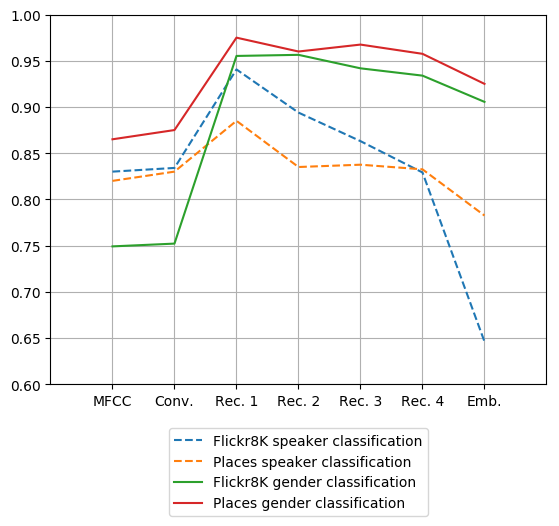
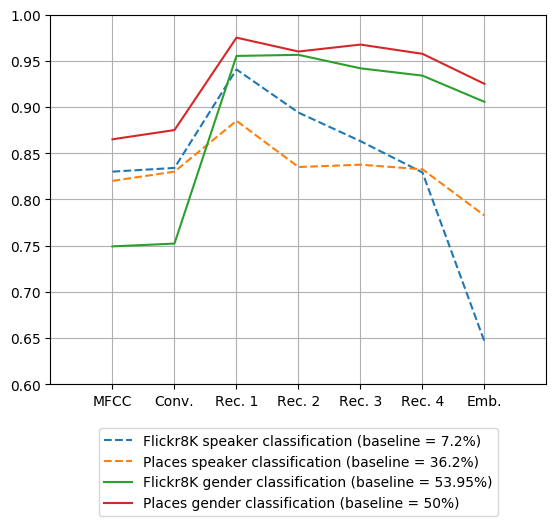
Add baseline in legend

Changed region(s): [[0.1825, 0.8213, 0.8819, 0.9734]]

diff --git a/places/explore_places.py b/places/explore_places.py
@@ -67,19 +67,19 @@ def gender_speaker_classification_scores():
     y = [0.8049, 0.8143, 0.9313, 0.8756, 0.8396, 0.8042, 0.6055]
     my_xticks = ['MFCC', 'Conv.', 'Rec. 1', 'Rec. 2', 'Rec. 3', 'Rec. 4', 'Emb.']
     plt.xticks(x, my_xticks)
-    plt.plot(x, y, label='Flickr8K speaker classification', linestyle='dashed')
+    plt.plot(x, y, label='Flickr8K speaker classification (baseline = 7.2%)', linestyle='dashed')
 
     # Places speaker classification F1-score
     y = [0.7695, 0.8026, 0.8544, 0.7836, 0.7979, 0.7814, 0.7329]
-    plt.plot(x, y, label='Places speaker classification', linestyle='dashed')
+    plt.plot(x, y, label='Places speaker classification (baseline = 36.2%)', linestyle='dashed')
 
     # Flickr8K gender classification F1-scores
     y = [0.7477, 0.7520, 0.9552, 0.9564, 0.9418, 0.9339, 0.9054]
-    plt.plot(x, y, label='Flickr8K gender classification')
+    plt.plot(x, y, label='Flickr8K gender classification (baseline = 53.95%)')
 
     # Places gender classification F1-scores
     y = [0.8647, 0.8746, 0.9750, 0.9600, 0.9675, 0.9575, 0.9249]
-    plt.plot(x, y, label='Places gender classification')
+    plt.plot(x, y, label='Places gender classification (baseline = 50%)')
 
     build_plot('../img/gender-speaker-classification.png', 0.6)
 
@@ -88,19 +88,19 @@ def gender_speaker_accuracy_classification_scores():
     y = [0.8300, 0.8340, 0.9406, 0.8939, 0.8630, 0.8291, 0.6461]
     my_xticks = ['MFCC', 'Conv.', 'Rec. 1', 'Rec. 2', 'Rec. 3', 'Rec. 4', 'Emb.']
     plt.xticks(x, my_xticks)
-    plt.plot(x, y, label='Flickr8K speaker classification', linestyle='dashed')
+    plt.plot(x, y, label='Flickr8K speaker classification (baseline = 7.2%)', linestyle='dashed')
 
     # Places speaker classification F1-score
     y = [0.8200, 0.8300, 0.8850, 0.8350, 0.8375, 0.8325, 0.7825]
-    plt.plot(x, y, label='Places speaker classification', linestyle='dashed')
+    plt.plot(x, y, label='Places speaker classification (baseline = 36.2%)', linestyle='dashed')
 
     # Flickr8K gender classification F1-scores
     y = [0.7491, 0.7521, 0.9552, 0.9564, 0.9418, 0.9339, 0.9055]
-    plt.plot(x, y, label='Flickr8K gender classification')
+    plt.plot(x, y, label='Flickr8K gender classification (baseline = 53.95%)')
 
     # Places gender classification F1-scores
     y = [0.8650, 0.8750, 0.9750, 0.9600, 0.9675, 0.9575, 0.9250]
-    plt.plot(x, y, label='Places gender classification')
+    plt.plot(x, y, label='Places gender classification (baseline = 50%)')
 
     build_plot('../img/gender-speaker-classification-accuracy.png', 0.6)
 
@@ -170,6 +170,6 @@ def build_plot(file_name, x_start):
 
 
 #gender_speaker_classification_scores()
-#gender_speaker_accuracy_classification_scores()
+gender_speaker_accuracy_classification_scores()
 #gender_bias_scores()
-gender_bias_accuracy_scores()
+#gender_bias_accuracy_scores()
